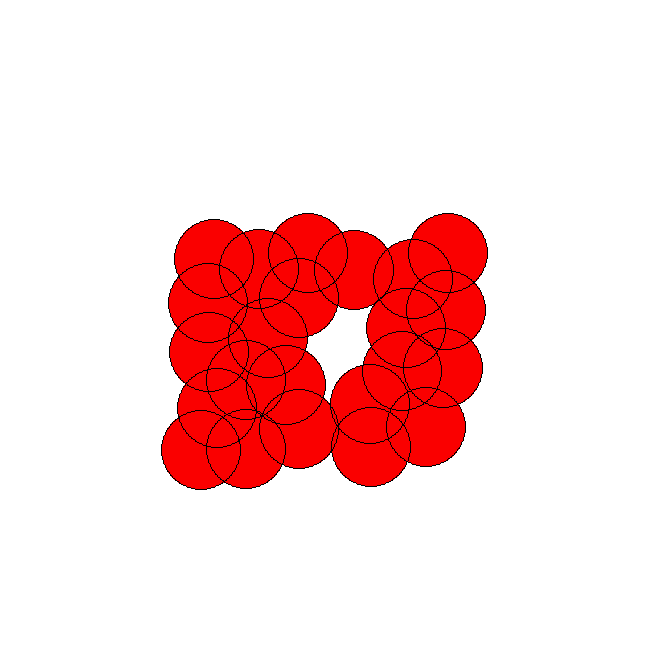
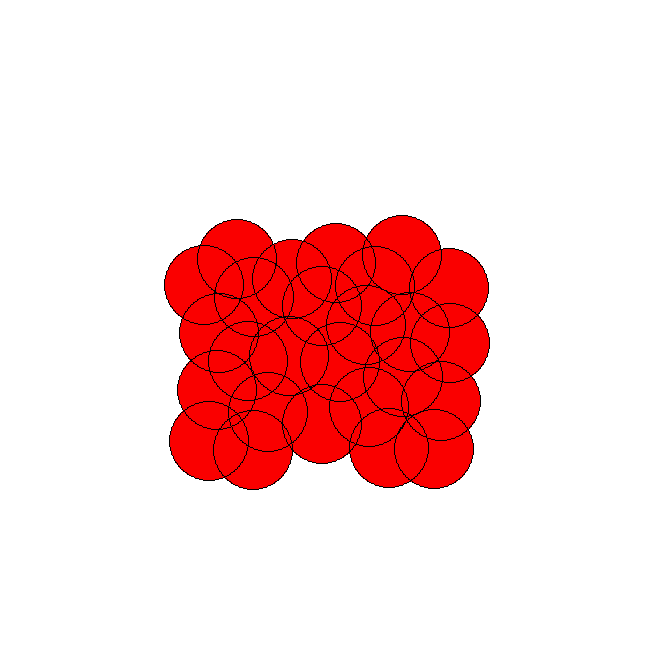
contraction copy

Changed region(s): [[0.2462, 0.3077, 0.7692, 0.7692]]

diff --git a/topology/Contraction_test.py b/topology/Contraction_test.py
@@ -22,7 +22,7 @@ def get_path_nodes(path, spheres):
 		for j in range(1, 51):
 			pnt = v2(path[i][0], path[i][1]) + j*dir;
 			for s in spheres:
-				if contains(s, pnt):
+				if contains(s, pnt) and not sphlist.has_key(s):
 					sphlist[s] = 1;
 					
 	return sphlist.keys();
@@ -95,9 +95,9 @@ def main():
 	##################################################
 	######        Contruct components
 	contractor = Contraction(sphere_list, DISPLAYSURF);
-	#components = contractor.contract(triangle_set, edge_tri_dict, sphere_tri_dict);
+	components = contractor.contract(triangle_set, edge_tri_dict, sphere_tri_dict);
 
-	#print "Got {0} component(s)".format(len(components))
+	print "Got {0} component(s)".format(len(components))
 	'''
 	i = 1;
 	for comp in components:
@@ -109,7 +109,6 @@ def main():
 	pygame.display.update();
 	#time.sleep(5);
 	'''
-
 	##################################################
 	######        Contruct Path
 	path1 = [ (214, 261), (458, 257) ]
@@ -121,8 +120,8 @@ def main():
 	untouchable3 = get_path_nodes(path3, sphere_list)
 
 	draw_path(DISPLAYSURF, (0,0,250), path1);
-	draw_path(DISPLAYSURF, (0,0,250), path2);
-	#draw_path(DISPLAYSURF, (0,0,250), path3);
+	#draw_path(DISPLAYSURF, (0,0,250), path2);
+	draw_path(DISPLAYSURF, (0,0,250), path3);
 	#draw_circles(DISPLAYSURF, (250, 150, 150), untouchable1);
 	#draw_circles(DISPLAYSURF, (150, 250, 150), untouchable2);
 	#draw_circles(DISPLAYSURF, (150, 150, 250), untouchable3);
@@ -134,7 +133,7 @@ def main():
  
 	##################################################
 	######        determine path homotopy
-	'''
+	
 	new_comp = components[0].merge(components[1],edge_tri_dict, sphere_tri_dict)
 
 	untouchable = {}
@@ -150,25 +149,22 @@ def main():
 		print "~~~~~~~~ Different Homotopy"
 
 	pygame.image.save(DISPLAYSURF, "homotopy.PNG")
-	'''
-
-	print untouchable1;
-	print untouchable2;
+	return;
 
 	union1 = SphereUnion(untouchable1[0]);	untouchable1.remove(untouchable1[0]);
-	union2 = SphereUnion(untouchable2[0]);	untouchable2.remove(untouchable2[0]);
+	union2 = SphereUnion(untouchable3[0]);	untouchable3.remove(untouchable3[0]);
 	while len(untouchable1) != 0:
 		for sphere in untouchable1:
 			if union1.add_sphere_betti(sphere, 0, edge_tri_dict, sphere_tri_dict):
 				untouchable1.remove(sphere)
 
-	while len(untouchable2) != 0:
-		for sphere in untouchable2:
+	while len(untouchable3) != 0:
+		for sphere in untouchable3:
 			if union2.add_sphere_betti(sphere, 0, edge_tri_dict, sphere_tri_dict):
-				untouchable2.remove(sphere)
+				untouchable3.remove(sphere)
 
 
-	print len(union1.get_spheres()), len(untouchable1)
+	print len(union2.get_spheres()), len(untouchable1)
 
 	csp = HomotopyCSP(spheres, contractor.graph, triangle_set, edge_tri_dict, sphere_tri_dict);
 	csp.greedy( union1, union2, DISPLAYSURF );

diff --git a/alphashape/Homotopy.py b/alphashape/Homotopy.py
@@ -7,7 +7,7 @@ __author__ = 'Yinan Zhang'
 __revision__ = '$Revision$'
 
 
-import sys, os, math, time, pygame, time
+import sys, os, math, time, pygame, time, copy
 sys.path.append('../basics/math')
 sys.path.append('../basics/algorithm')
 
@@ -35,10 +35,10 @@ class HomotopyCSP:
 		neighbors = [];							# neighbor spheres of the union.
 		for sphere in union.get_spheres():				# loop over each component sphere
 			curr_neighbors = self.graph[sphere];# find its neighbors in the graph
-
 			for curr_neighbor in curr_neighbors:
 				if not used_spheres.has_key(curr_neighbor): # such that each neighbor is not used
 					neighbors.append(curr_neighbor);
+		print "Union neighbor spheres: {0}".format( len(neighbors) );
 		return neighbors;
 
 	def greedy( self, union1, union2, surface = None ):
@@ -61,7 +61,8 @@ class HomotopyCSP:
 		for sphere in union2.get_spheres():
 			used_spheres[sphere] = 1;
 		
-		union = union1.merge(union2, self.edge_tri_dict, self.sphere_tri_dict);
+		union1cp = copy.deepcopy( union1 );
+		union = union1cp.merge(union2, self.edge_tri_dict, self.sphere_tri_dict);
 		neighbors = self.neighbor_spheres(union1, used_spheres)
 		heuristic = PriorityQueue();
 
@@ -72,9 +73,11 @@ class HomotopyCSP:
 
 		while not heuristic.isEmpty():
 			choice = heuristic.pop()
+			print choice
 			pygame.draw.circle( surface, (255,0,0), (int(choice.center[0]), int(choice.center[1])), int(choice.radius), 2 );
 			time.sleep(1);
 			old_betti = union.betti_number(self.edge_tri_dict)
+			print "old betti number: {0}".format( old_betti )
 			good = union.add_sphere_betti(choice, old_betti, self.edge_tri_dict, self.sphere_tri_dict);
 			if good == None:
 				print "Same homotopy class";
@@ -89,9 +92,11 @@ class HomotopyCSP:
 					heuristic.push( neighbor, dist(neighbor, union1) + dist(neighbor, union1) );
 					break;
 			else:
+
 				heuristic.push( choice, dist(choice, union1) + dist(choice, union1) );
 			
 		betti = union.betti_number(self.edge_tri_dict);
+		print betti
 		if betti != 0:
 			print "Different Homotopy Classes"
 		else:

diff --git a/sampling/experiments/random_sampling.py b/sampling/experiments/random_sampling.py
@@ -22,8 +22,8 @@ def inside(sphere, point):
 	@param point: (x,y)'''
 	if (sphere[0]-point[0])**2 + (sphere[1]-point[1])**2 < (sphere[2]*1)**2:
 		return True;
-	if point[0] <= 400 and point[0] >= 300 and point[1] <= 400 and point[1] >= 300:
-		return True;
+	#if point[0] <= 400 and point[0] >= 300 and point[1] <= 400 and point[1] >= 300:
+	#	return True;
 
 def sample_one(n, samples):
 	global width;
@@ -76,7 +76,7 @@ def main():
 	pygame.display.update();
 
 	pygame.image.save( DISPLAYSURF, 'experiment.PNG' );
-	save_data(spheres, 'experiment.txt')
+	save_data(spheres, 'experiment3.txt')
 
 if __name__ == '__main__':
 	main()
